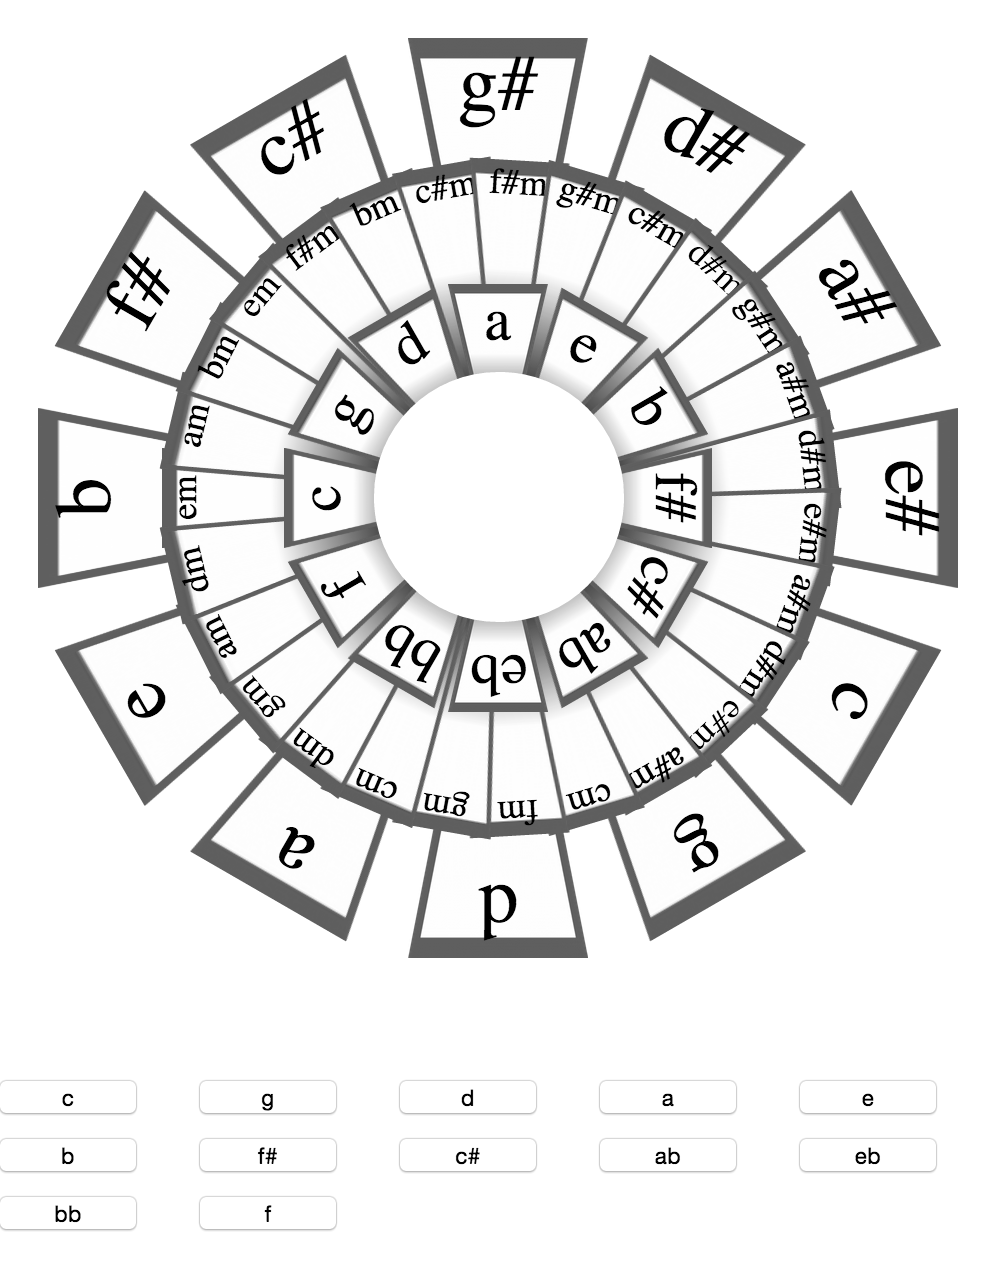
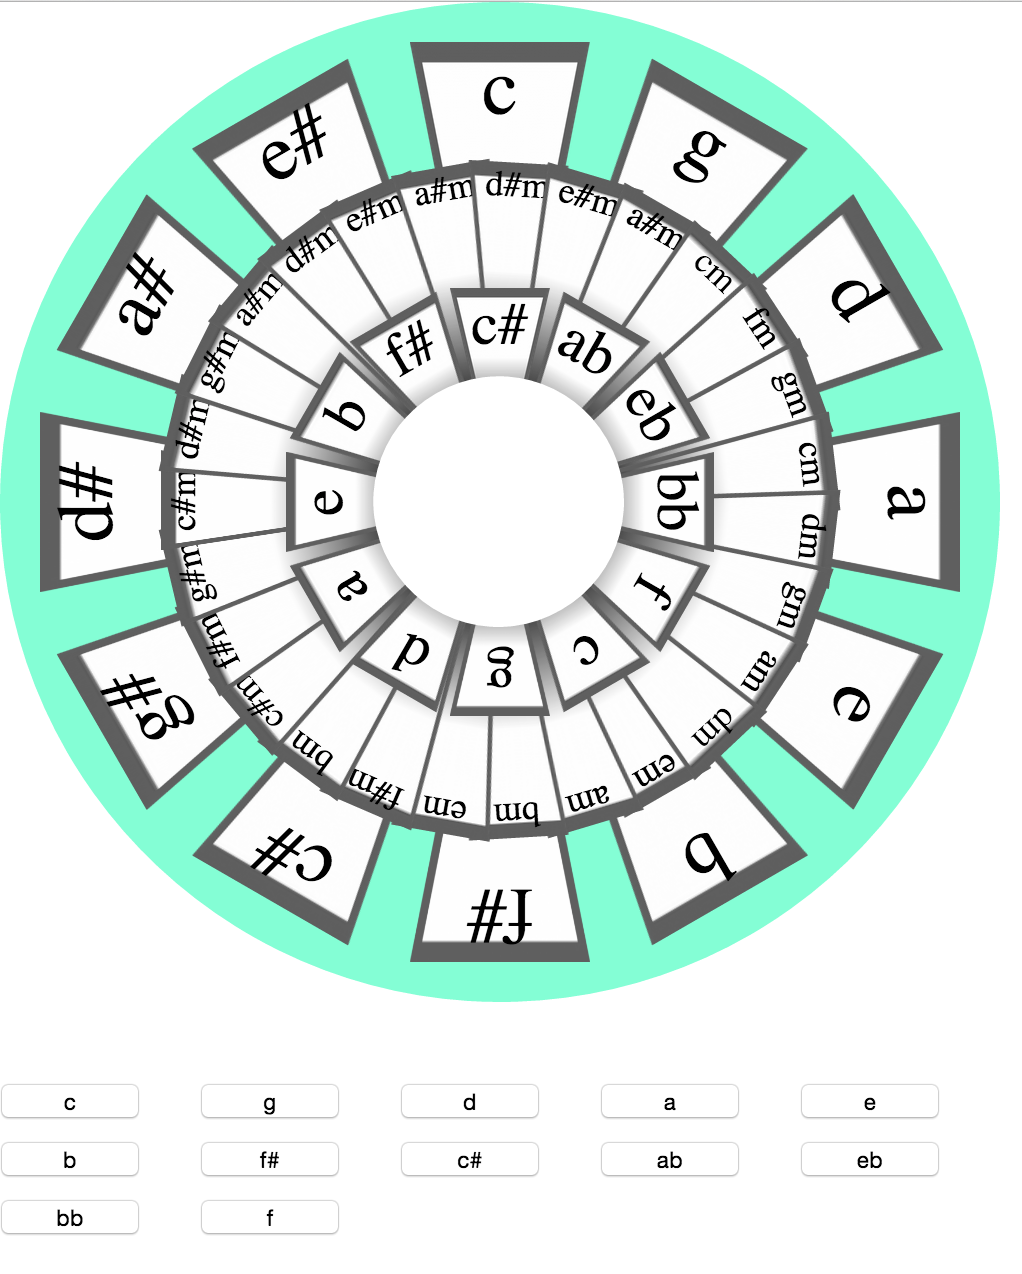
changed screen grab, bg color

diff --git a/js/ChordWheel.js b/js/ChordWheel.js
@@ -12,13 +12,11 @@ function ChordWheel(config) {
         notes2Arr = wheel2Notes.split(" ");
         notes3Arr = wheel3Notes.split(" ");
 
-
     var innerPadding = 40;
     var hole = null;
 
 
     function init(){
-
 
         buildWheels();
         buildControls();
@@ -121,7 +119,7 @@ function ChordWheel(config) {
         theWheel.css({
             left: offset,
             top: offset
-        })
+        });
     }
 
     init();

diff --git a/index.html b/index.html
@@ -26,6 +26,9 @@
                 width: 500px;
                 height: 500px;
 
+                background-color: aquamarine;
+                border-radius: 50%;
+                
                 -moz-transition: all 1s ease;
                 -webkit-transition: all 1s ease;
                 -o-transition: all 1s ease;
